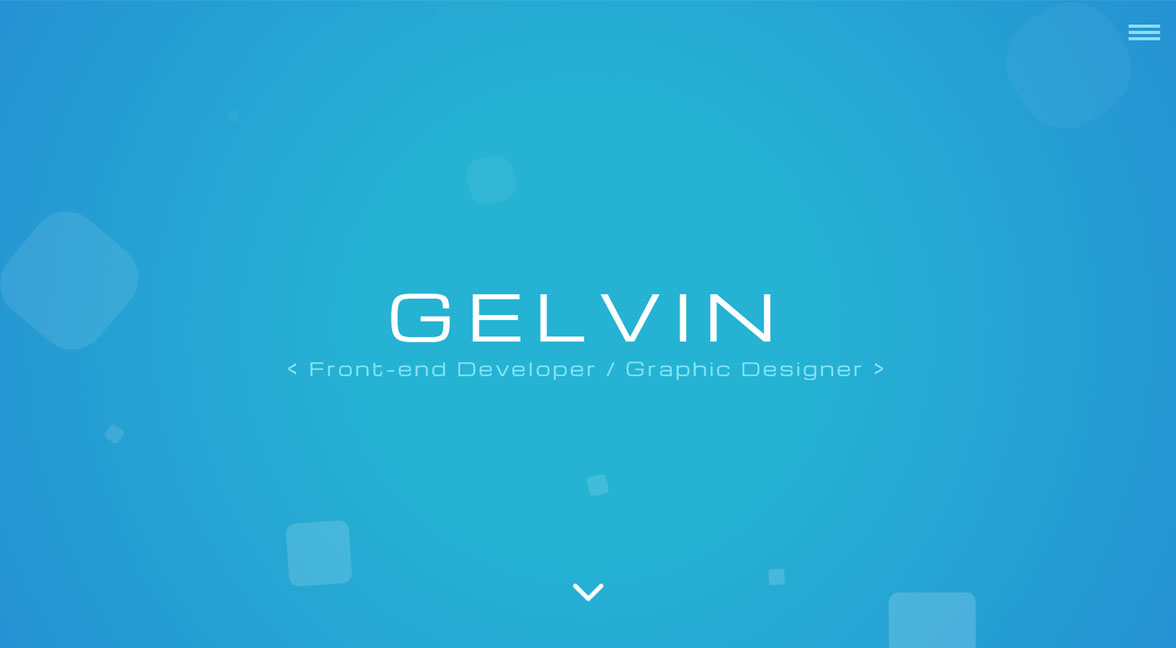
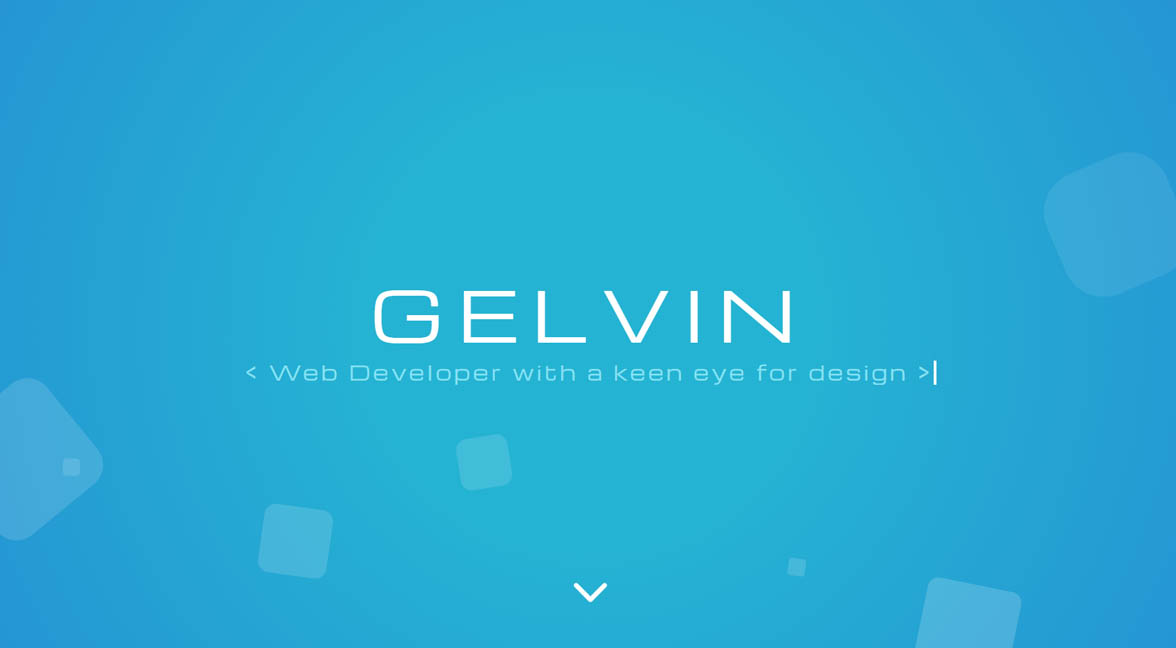
Added new portfolio

diff --git a/src/components/pages/home.jsx b/src/components/pages/home.jsx
@@ -74,7 +74,7 @@ export default function Home() {
                     <div id="hero-banner" className="primary-banner section">    
                         <div className="context">
                             <h1>GELVIN</h1>
-                            <div className="banner-sub-text"><h2>&lt; Front-end Developer / Graphic Designer &gt;</h2></div>
+                            <div className="banner-sub-text"><h2>&lt; Building digital experiences, one pixel at a time &gt;</h2></div>
                         </div>
                         <div className="area" >
                                     <ul className="circles">
@@ -101,13 +101,13 @@ export default function Home() {
                                 <div className="col-lg-6">
                                 <h2>About Me</h2>
 
-                                <p>My professional crafts are technology and design, while music is what drives me. Considering how closely those three are related, a fantastic user experience is always the end outcome. And because I work as a front-end developer, I get to enjoy my favorite playlist while doing what I love.
+                                <p>I am a passionate web developer with a strong foundation in graphic design principles. This background allows me to approach projects with a unique perspective, focusing not only on fucntionality but also on creating visually engaging and user-friendly experiences.
                                 </p>
                                 <p>I have been developing websites for the past 8 years since I received my degree in the field of computer science. I develop intelligent websites and emails that complies with web standards, as well as creating graphic designs and web contents.
                                 </p>
                                 <p>Since the world is constantly evolving, I am highly receptive to learning new technologies, ideas and concepts. I am a certified team player, which is unquestionably a skill required to maintain a highly motivated and cooperative team.
                                 </p>
-                                <p>With all that being said, let's connect so we can talk more about my professional journey... <i>or maybe our shared taste in music</i>.
+                                <p>With all that being said, let's connect so we can talk more about my professional journey.
                                 </p>
 
 

diff --git a/src/components/pages/portfolioDetails.jsx b/src/components/pages/portfolioDetails.jsx
@@ -30,11 +30,15 @@ export default function PortfolioDetails(){
     var  { name , id } = useParams(); 
     var data;
     var breakLoop = false;
+
+    var descriptionParagraphs;
     portfolioDataList.map((portfolioData, index) => {
         // console.log('name: ' + portfolioData.name.toLowerCase() + ' vs ' + name.replace(/-/g , ' ').toLowerCase());
         if(!breakLoop){
             if(portfolioData.name.toLowerCase().toString() === name.replace(/-/g  , ' ').toLowerCase().toString() && portfolioData.id.toString() === id.toString()){
                 data = (portfolioData);
+                descriptionParagraphs = data.description.split('\n');
+
                 breakLoop = true;
             }
             return '';
@@ -97,7 +101,12 @@ export default function PortfolioDetails(){
 
 
                             <div className="portfolio-description">
-                                <p>{data.description}</p>
+                                <div>{descriptionParagraphs.map((lines, index) => {
+
+                                        return(
+                                            <p>{lines}</p>
+                                        );
+                                    })}</div>
                                 <br /><br />
 
                                 {linkListHeader}

diff --git a/src/components/navbar.jsx b/src/components/navbar.jsx
@@ -23,7 +23,7 @@ export default function NavBar() {
                     <ul>
                         <li><a href="/">Home</a></li>
                         <li><a href="/#/portfolio">My Portfolio</a></li>
-                        <li><a href={ResumePdf} target="_blank">My Resume</a></li>
+                        {/* <li><a href={ResumePdf} target="_blank">My Resume</a></li> */}
                     </ul>
                     </nav> 
                 </div>

diff --git a/src/components/contact.jsx b/src/components/contact.jsx
@@ -36,7 +36,7 @@ export default function Contact() {
                                 
                                 
                             </div>
-                            <div className="copyright">© Gelvin De Leon 2023</div>
+                            <div className="copyright">© Gelvin De Leon 2025</div>
                         </div>
                     </div>
                 </div>

diff --git a/src/index.css b/src/index.css
@@ -36,7 +36,7 @@
 .context h2{
     color: #87e0f1;
     text-align: center;
-    font-size: 23px;
+    font-size: 21px;
 }
 
 .area{
@@ -405,7 +405,7 @@
   
   .change-bg {
     width: 262px;
-    height: 282px;
+    height: 224px;
     transform: translate(3%,-3%);
   }
 
